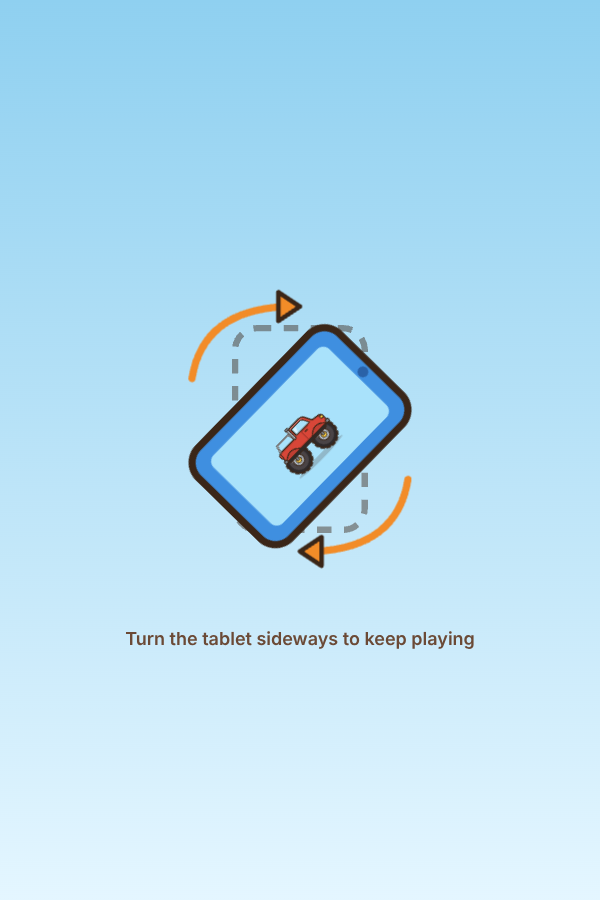
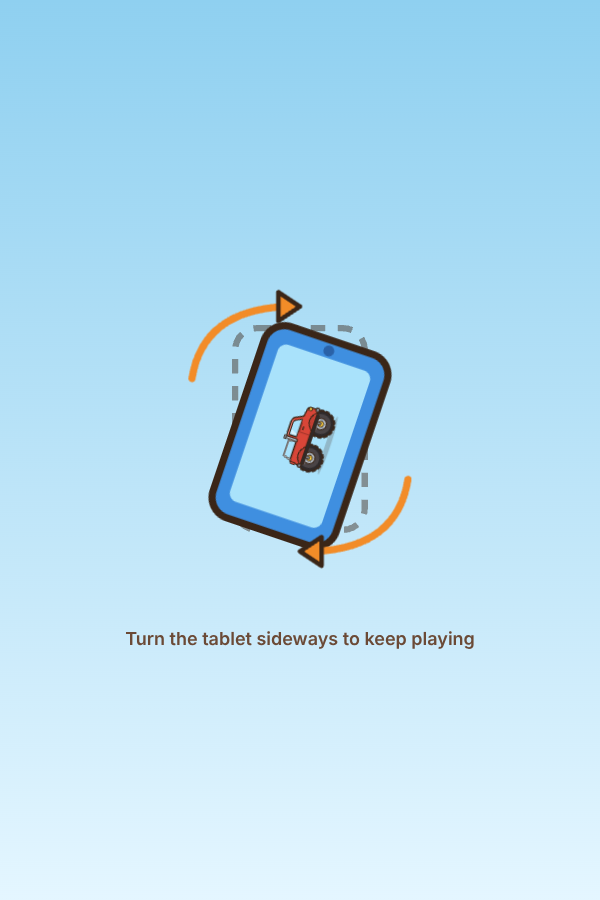
Wonder Garage: restore on the ground, not on a shelf; test report draft
A checkpoint restore now returns the truck to the ground height where the
checkpoint was reached (it could land on a spring-route shelf above it), a
failed build test resets at ground level (not on the stump above the stop
point), and the rally friends wait clear of the truck. Adds the test report
draft with measured sizes (1.70 MB raw, 0.50 MB gzip for the whole game).

Claude-Session: https://claude.ai/code/session_018eY5LsuawGy6pi18XbYBE1

Changed region(s): [[0.3, 0.3422, 0.69, 0.6222]]

diff --git a/garage/src/scenes/MissionScene.ts b/garage/src/scenes/MissionScene.ts
@@ -131,6 +131,7 @@ export default class MissionScene extends Phaser.Scene {
     const speedFactor = (a.settings.slowDriving ? TUNING.drive.slowFactor : 1) * missionSpeed;
     this.sim = new TruckSim(this.terrain, L.startX, { wheel: save.truck.wheel, speedFactor, assist: this.state.assist });
     this.groundY = this.sim.y;
+    this.checkpointY = this.sim.y;
 
     this.world = new WorldView(
       this,
@@ -342,6 +343,7 @@ export default class MissionScene extends Phaser.Scene {
     if (!this.sim.grounded) return;
     for (const cp of this.level.checkpoints) {
       if (this.sim.x >= cp.x && cp.x > this.state.checkpointX && this.state.reachCheckpoint(cp.id, cp.x)) {
+        this.checkpointY = this.sim.y;
         this.world.raiseFlag(cp.id);
         void this.persistFinds();
       }
@@ -465,6 +467,8 @@ export default class MissionScene extends Phaser.Scene {
   }
 
   private lastRestoreMs = 0;
+  /** ground height where the last checkpoint was reached */
+  private checkpointY: number = G;
   /** the log the truck bumped during the current jump (a miss only if it lands short) */
   private airBump: string | null = null;
   private jumps = 0;
@@ -487,7 +491,7 @@ export default class MissionScene extends Phaser.Scene {
     this.sim.assist = this.state.assist;
     await wait(this, Math.max(0, TUNING.recovery.restoreMs - fadeOut - fadeIn));
     if (this.dead) return;
-    this.sim.placeAt(this.state.checkpointX);
+    this.sim.placeAt(this.state.checkpointX, this.checkpointY);
     this.groundY = this.sim.y;
     this.cam.snap(this.sim.x, this.groundY);
     this.truck.update(this.pose(), 0);
@@ -670,7 +674,7 @@ export default class MissionScene extends Phaser.Scene {
     await this.truck.fadeOut(dur(220, 100));
     await wait(this, 500);
     if (this.dead) return;
-    this.sim.placeAt(b.zone.stopX);
+    this.sim.placeAt(b.zone.stopX, G);
     this.groundY = this.sim.y;
     this.truck.update(this.pose(), 0);
     await this.truck.fadeIn(dur(240, 100));

diff --git a/garage/src/scenes/mission/stories.ts b/garage/src/scenes/mission/stories.ts
@@ -184,9 +184,9 @@ async function noriFork(s: MissionScene): Promise<void> {
   s.setLane(picked === 'jump' ? 'back' : 'front');
   pip?.setPose('idle');
   // everyone goes their own way and meets up before the big step
-  if (nori) void nori.moveTo(3090, gy(s, 'front'), SPEED.nori);
-  if (milo) void milo.moveTo(3180, gy(s, 'front'), SPEED.milo);
-  if (pip) void pip.followPath([...pathAlong(s.base, pip.x, 3000, 'back', G - 170), { x: 3140, y: G }], SPEED.pip);
+  if (nori) void nori.moveTo(2850, gy(s, 'front'), SPEED.nori);
+  if (milo) void milo.moveTo(3040, gy(s, 'front'), SPEED.milo);
+  if (pip) void pip.followPath([...pathAlong(s.base, pip.x, 2940, 'back', G - 170)], SPEED.pip);
   await wait(s, dur(500, 100));
   if (s.dead) return;
   s.cameraBusy = false;

diff --git a/garage/docs/TEST_REPORT.md b/garage/docs/TEST_REPORT.md
@@ -1,0 +1,97 @@
+# Test report: Wonder Garage, first release
+
+This report keeps three things apart: what automated tests checked, what was inspected by eye, and what has **not**
+been checked (a real iPad, and Bentley actually playing).
+
+Environment: Linux container, Node 22.22, Chromium from Playwright 1.56.1 with software WebGL (SwiftShader), at about
+6–8 frames per second. That's far slower than an iPad, so timings below are on the game clock, not the wall clock.
+
+## Automated checks
+
+### Commands
+
+| Check | Command | Result |
+|---|---|---|
+| Install from lockfile | `npm ci` | ✅ |
+| Type check | `npx tsc --noEmit -p garage/tsconfig.json` (part of `npm run garage:build`) | ✅ no errors |
+| Production build | `npm run garage:build` | ✅ |
+| Unit tests | `npm run garage:test` | ✅ 80 passed |
+| Browser tests | `npm run garage:e2e` | ✅ 19 passed (≈19 min) |
+
+### Unit tests (Vitest, `garage/tests/unit`)
+
+- **Movement** (`physics.test.ts`): auto-drive and brake; a log makes the truck wait (no miss) and a tap clears it;
+  spring wheels jump clearly higher; holding adds 10–40%; coyote time (90 ms works, 220 ms doesn't); input buffer
+  (100 ms works, 300 ms doesn't); a missed gap is a soft "fell" event; ramps and pads throw at full speed even with
+  slower driving. Every route variant finishes with **both wheel types**: mission 1 with a bridge, and with a ramp;
+  mission 2 taking turns on the practice ramp, and with a second path; mission 3 on the gentle route, and on the jump
+  route. Every combination of offered pieces in every build zone either works or names the socket that would help,
+  and each zone has at least two working solutions.
+- **Mission state** (`rules.test.ts`): the phase order is enforced (no skipping the build, no finishing twice), and
+  completion is idempotent. Coins count once, checkpoints only move forward, and two misses widen the timing.
+- **Placement validation**: pieces only fit their shaped sockets, snapping picks the nearest fitting socket within
+  range, and trays offer at most three pieces.
+- **My Tiny Track**: only legal connections can be placed. *All 2,457 legal layouts* were simulated with both wheels:
+  each is either drivable or gets a fix that is a ramp in the slot before the pond. Slower driving still clears every
+  ramp jump. Damaged saved layouts are corrected.
+- **Rewards and saves** (`save.test.ts`): applying a mission result twice changes nothing the second time. The
+  unversioned format migrates to version 1. Bad values are repaired and non-saves refused, and a newer version is
+  refused. IndexedDB write → reload works, with the previous record kept. A corrupted current record falls back to the
+  previous one and is set aside, not deleted. A failed write reports `failed`, never success. Import accepts a real
+  export and rejects anything else unchanged. Reset keeps grown-up settings.
+- **Art** (`art.test.ts`): all 89 pieces and 29 icons parse; ids are unique; there is no text, script or external
+  reference in the art; every picture builder returns valid SVG.
+- **Silence and privacy** (`silence.test.ts`): no Web Audio, speech, microphone/camera, audio/video elements,
+  notifications, beacons, network calls or vibration anywhere in the game source. The only URL is the SVG namespace,
+  and Phaser runs with `noAudio`.
+- **Service worker** (`sw.test.ts`): valid JavaScript with a versioned cache; it never activates on its own (only on
+  the app's "apply update" at the garage); a single failed file fails the install; old caches are removed; only
+  same-origin GET requests are handled.
+
+### Browser tests (Playwright, `garage/tests/e2e`; real pointer and keyboard input)
+
+Each journey also asserts **no console errors and no requests to any other host**.
+
+| Acceptance criterion | Test | Result |
+|---|---|---|
+| 2. One obvious start action | First launch: garage door → Play → mission 1 drives | ✅ |
+| 3. Missions completable with default controls, no audio, no reading, one finger | All six mission journeys | ✅ |
+| 4. Both wheel types finish | Mission 1 (chunky and spring); missions 2 and 3 run for each wheel | ✅ |
+| 5. M1 bridge and ramp; M2 turns and second path; M3 both routes | `missions.spec.ts` | ✅ |
+| 6. Help after two misses, manual help, undo, checkpoint restart, pause, exit, replay, end choices | `system.spec.ts` (help and recovery; building) plus the mission journeys | ✅ |
+| 7. Refresh without duplicates | Coins saved at a checkpoint survive a reload; mission 1 completed twice → one pennant, no duplicate coins | ✅ |
+| 8. Offline reopen; honest failed cache | Offline after caching → reload → plays; a file failing to download → "Not ready" with the reason | ✅ (desktop Chromium on localhost) |
+| 9. Saved tracks | Pond after start refused; pond without ramp → fix (ramp in slot 0); test drive to the finish; save → reload → load → drive | ✅ |
+| 10. Drag coordinates; portrait | Drag at 1024×768, 1366×768 and 1920×1080; portrait 600×900 → rotate picture + paused, progress kept | ✅ |
+| 11. Backgrounding, cancel, rotation | Held key + focus loss → paused, input released; hidden tab → paused; cancelled touch → released; nothing moves under the pause menu | ✅ |
+| 12. Corrupt save, failed write, invalid import | Damaged IndexedDB record → previous good save; failing writes → "The last save failed"; bad import file → "Nothing was changed" | ✅ |
+| 13. Colour-independent cues, reduced motion | Device reduced-motion → calm mode, decorative animation stopped; settings switch it | ✅ (cues reviewed by eye below) |
+| 14. No dead items, missing art, console errors or third-party requests | Asserted in every journey; art test covers missing pieces | ✅ |
+
+Measured in the help test: a missed jump is back at the checkpoint after **1.1–1.3 s of game-clock time** at ~7 fps
+(scheduled at 0.8 s in `tuning.ts`; frame overhead adds the rest at this frame rate). The **wall-clock time is
+unverified** on an iPad.
+
+## Visual inspection
+
+The screenshots in `docs/screenshots/` were looked at one by one, at 1024×768 (iPad landscape CSS size). See the
+independent review notes below for what was found and fixed.
+
+## Not verified
+
+- **A real iPad** (Safari or Home Screen): touch feel, Safari's storage and offline behaviour, safe areas, frame
+  rate. Desktop WebKit wasn't available here either; only Chromium was run. Use `docs/DEVICE_CHECKLIST.md`.
+- **Offline over the home network**: needs HTTPS (see README). The local-certificate steps haven't been tried on a
+  real iPad.
+- **Bentley playing**: no child playtest has happened. Use `docs/PLAYTEST.md`. Nothing here claims he will enjoy it
+  or that it changes behaviour.
+
+## Sizes (production build, `dist-garage/`)
+
+| What | Raw | Compressed (gzip -9) |
+|---|---|---|
+| Everything (first load = complete offline set: code, art-as-code, icons, manifest, service worker) | 1.70 MB | 0.50 MB |
+| Of which Phaser | 1.37 MB | 0.36 MB |
+
+The targets were under 8 MB (first load) and under 15 MB (offline region). The art is SVG in the code, turned into
+textures on the device, so there are no image downloads.
